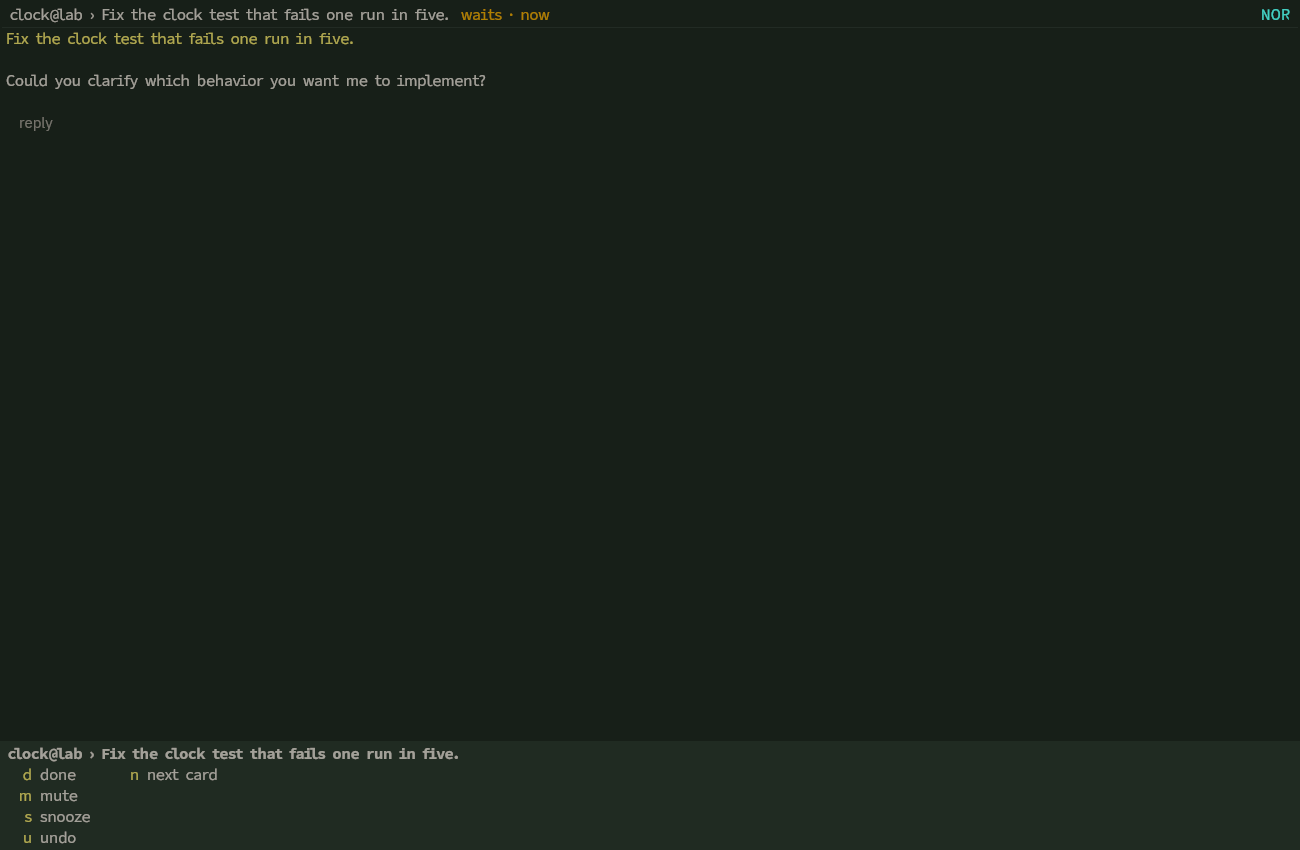
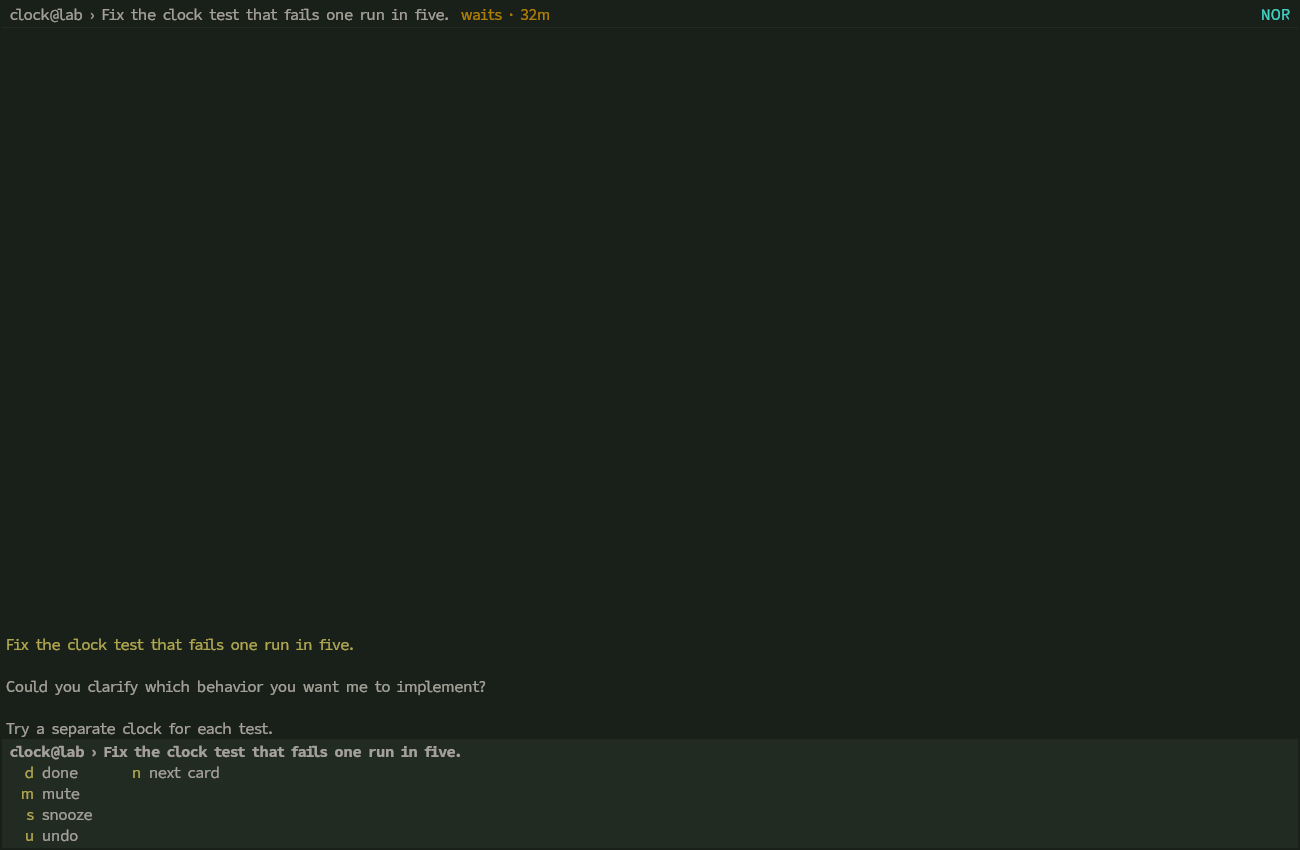
Verify the thread draft, recap, and new-mail notice at laptop and phone widths
Rho-Agent-Id: 2yhyteczdc43

diff --git a/crates/rho-mail/src/ui/thread.rs b/crates/rho-mail/src/ui/thread.rs
@@ -237,7 +237,8 @@ pub struct ThreadView {
     initial_scroll: bool,
     latest_mail: Option<(Party, ChatSeq)>,
     hint_anchor: Option<Anchor>,
-    last_point_row: u32,
+    /// Resolve against the new transcript before inferring motion direction.
+    last_point: Anchor,
     /// The mail dealt to this view, also the target when the cursor is
     /// between mails rather than on a different writer's mail.
     dealt_mail: Option<MessageId>,
@@ -351,7 +352,9 @@ impl ThreadView {
                     let selection = editor.selections.newest_anchor();
                     let head = selection.head();
                     let row = head.to_point(&snapshot).row;
-                    let previous = std::mem::replace(&mut this.last_point_row, row);
+                    let previous = std::mem::replace(&mut this.last_point, head)
+                        .to_point(&snapshot)
+                        .row;
                     let tail = draft::start(this.transcript.buffer(), cx).row;
                     if selection.start == selection.end
                         && row < tail
@@ -368,7 +371,6 @@ impl ThreadView {
                                 .find(|&row| this.transcript.buffer().read(cx).line_len(row) > 0)
                                 .unwrap_or(tail)
                         };
-                        this.last_point_row = target;
                         this.cursor_to_row(target, Autoscroll::fit(), cx);
                         return;
                     }
@@ -423,7 +425,7 @@ impl ThreadView {
             initial_scroll: !list,
             latest_mail: latest_mail(system, thread),
             hint_anchor: None,
-            last_point_row: 0,
+            last_point: Anchor::Min,
             dealt_mail: None,
             reply_to: None,
             expanded_quotes: HashSet::new(),
@@ -445,13 +447,16 @@ impl ThreadView {
             // The list reads from the top.
             view.cursor_to_first_thread(cx);
         } else {
-            view.editor.update(cx, |editor, cx| {
+            let end = view.editor.update(cx, |editor, cx| {
                 let display = editor.display_snapshot(cx);
                 let end = display.buffer_snapshot().max_point();
                 editor.selections.change_with(&display, |selections| {
                     selections.select_ranges([end..end]);
                 });
+                editor.selections.newest_anchor().head()
             });
+            view.last_point = end;
+            view.draft_point = Some(end);
         }
         // What is unread and the user's private replies come from the
         // ledger, which is the frame's and is leased while it opens this:

diff --git a/product/design/README.md b/product/design/README.md
@@ -46,7 +46,7 @@ Starting from the waiting clock ask, run the rows in order. `space` deals on Des
 | --- | --- |
 | [Dealt clock thread](laptop-card.png) | `form_way laptop input 'key:g' 'key:g' 'wait:400' 'key:space' 'wait:800'; form_shot laptop card` |
 | [Mail body search](laptop-prompt.png) | `form_way laptop input 'text::' 'wait:400' 'text:mail: behavior' 'wait:600'; form_shot laptop prompt` |
-| [Verdict menu over the card](laptop-menu.png) | `form_way laptop input 'key:escape' 'wait:600' 'key:space' 'wait:700'; form_shot laptop menu` |
+| [Verdict menu below the card](laptop-menu.png) | `form_way laptop input 'key:escape' 'wait:600' 'key:space' 'wait:700'; form_shot laptop menu` |
 | [Agent transcript at the mail's writing step](laptop-agent.png) | `form_way laptop input 'key:escape' 'wait:550' 'key:k' 'key:k' 'key:enter' 'wait:850'; form_shot laptop agent` |
 | [Done echo back on Desk](laptop-echo.png) | `form_way laptop input 'key:ctrl+k' 'wait:600' 'key:space' 'wait:350' 'key:d' 'wait:320'; form_shot laptop echo` |
 
@@ -99,11 +99,11 @@ form_way laptop stop
 form_gui phone laptop
 # After the thread restores, scroll back and tap inside its projected draft:
 form_way phone input 'key:ctrl+u' 'key:ctrl+u' 'wait:550'
-form_way phone click 130 1550
+form_way phone click 153 1550
 form_way phone input 'text:only ' 'wait:550'
 fixture="$bins/examples/thread_reading_fixture"
 read -r ws worker mid < <("$fixture" send "$rig/runtime" "$rig/repo" 2 \
-    $'Both checks pass.\\n\\nThe retry policy did not change.')
+    $'Both checks pass.\n\nThe retry policy did not change.')
 sleep .6
 form_shot phone reading-notice
 ```
@@ -113,7 +113,7 @@ body, and no March or warm recap. The short tail sits at the window edge.
 The [phone notice](phone-reading-notice.png) leaves the reading position and
 the full draft in place, even when the notice doesn't fit beside the draft.
 Scroll back down with `ctrl-d`; the notice clears when the draft comes inline.
-While there, run `"$fixture" edit "$rig/runtime" "$ws" "$worker" "$mid" $'Both checks pass.\\n\\nNo retries were changed.\\n\\nBoth clocks use the same input.'`:
+While there, run `"$fixture" edit "$rig/runtime" "$ws" "$worker" "$mid" $'Both checks pass.\n\nNo retries were changed.\n\nBoth clocks use the same input.'`:
 history moves up, but the draft and caret stay put.
 
 ## Desk on laptop and phone: what moves

diff --git a/product/mail.md b/product/mail.md
@@ -124,7 +124,7 @@ rejected:
 
 The point never rests on the blank line between two mails. A reply from a dealt card settles the card and stays on the thread; the next card waits for `deal.Card.deal`. On the phone, the whole space below the last mail is the draft's tap target.
 
-Built renders: [asking mail on the laptop](design/laptop-card.png) and [on the phone](design/phone-card.png), and [an outcome with its proof](design/laptop-proof.png).
+Built renders: [asking mail on the laptop](design/laptop-card.png) and [on the phone](design/phone-card.png), [an outcome with its proof](design/laptop-proof.png), [a cold recap above its mail](design/laptop-reading.png), and [the notice in a stuck phone draft](design/phone-reading-notice.png).
 
 mock:
 ```text
